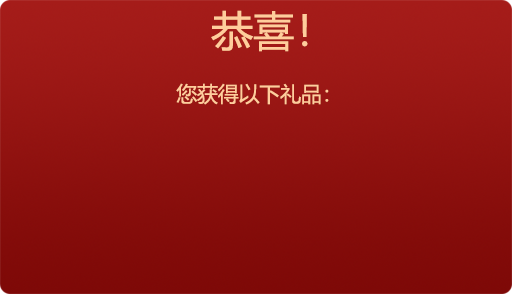
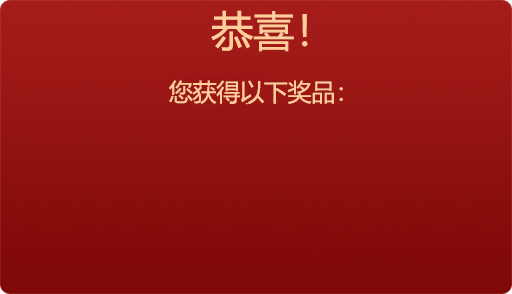
概率回调

Changed region(s): [[0.3125, 0.2755, 0.6562, 0.3673]]

diff --git a/src/MyPrizes.ts b/src/MyPrizes.ts
@@ -23,7 +23,7 @@ class MyPrizes extends eui.UILayer {
         var back = createBitmap("back_png");
 
         back.x = (this.stage.stageWidth - back.width) * 0.5;
-        back.y = this.stage.stageHeight * 0.8;
+        back.y = this.stage.stageHeight * 0.9;
         this.addChild(back);
 
         back.touchEnabled = true;
@@ -74,7 +74,7 @@ class MyPrizes extends eui.UILayer {
         ac_content.x = 200;
         ac_content.textColor = textColor;
         // ac_content.y = my_prize_info_bg.y + 360;
-        ac_content.y = my_prize_info_bg.y + 190;
+        ac_content.y = my_prize_info_bg.y + 390;
         myPrizeInfo_cnt.addChild(ac_content);
 
         // var rp_png = createBitmap("Red Packet Symbol_png");
@@ -97,15 +97,15 @@ class MyPrizes extends eui.UILayer {
 
 
 
-        // var dd_png = createBitmap("Dollar Symbol_png");
-        // var ad_text = "$" + MyPrizes.currentAd + mc_content.ad_content;
-        // var ad_content = createTextFiledNoEui(ad_text);
-        // ad_content.bold = true;
-        // ad_content.size = textSize;
-        // ad_content.x = 200;
-        // ad_content.textColor = textColor;
-        // ad_content.y = my_prize_info_bg.y + 190;
-        // myPrizeInfo_cnt.addChild(ad_content);
+        var dd_png = createBitmap("Dollar Symbol_png");
+        var ad_text = "$" + MyPrizes.currentAd + mc_content.ad_content;
+        var ad_content = createTextFiledNoEui(ad_text);
+        ad_content.bold = true;
+        ad_content.size = textSize;
+        ad_content.x = 200;
+        ad_content.textColor = textColor;
+        ad_content.y = my_prize_info_bg.y + 190;
+        myPrizeInfo_cnt.addChild(ad_content);
 
 
 
@@ -119,17 +119,17 @@ class MyPrizes extends eui.UILayer {
         var _scale = 1.5;
 
         
-        // dd_png.scaleX = _scale;
-        // dd_png.scaleY = _scale;
-        // dd_png.x = 150 - dd_png.width;
-        // dd_png.y =  my_prize_info_bg.y + 165;
+        dd_png.scaleX = _scale;
+        dd_png.scaleY = _scale;
+        dd_png.x = 150 - dd_png.width;
+        dd_png.y =  my_prize_info_bg.y + 165;
 
 
         coins_png.scaleX = _scale;
         coins_png.scaleY = _scale;
         coins_png.x = 150 - coins_png.width;
         // coins_png.y = my_prize_info_bg.y + 350;
-         coins_png.y = my_prize_info_bg.y + 165;
+         coins_png.y = my_prize_info_bg.y + 365;
 
         // rp_png.scaleX = _scale + 0.2;
         // rp_png.scaleY = _scale + 0.2;
@@ -138,7 +138,7 @@ class MyPrizes extends eui.UILayer {
 
 
         myPrizeInfo_cnt.addChild(coins_png);
-        // myPrizeInfo_cnt.addChild(dd_png);
+        myPrizeInfo_cnt.addChild(dd_png);
         // myPrizeInfo_cnt.addChild(rp_png);
 
         var tipsContent = createTextFiledNoEui(mc_content.RedeemTime);
@@ -168,7 +168,7 @@ class MyPrizes extends eui.UILayer {
     var back = createBitmap("How to redeem button_png");
 
     back.x = (this.stage.stageWidth - back.width) * 0.5;
-    back.y = this.stage.stageHeight * 0.73;
+    back.y = this.stage.stageHeight * 0.83;
     this.addChild(back);
 
     back.touchEnabled = true;

diff --git a/src/PrizeAndRules.ts b/src/PrizeAndRules.ts
@@ -76,7 +76,7 @@ class PrizeAndRules extends eui.UILayer {
 
         myPrizeInfo_cnt.addChild(my_prize_info_bg);
         myPrizeInfo_cnt.addChild(title);
-        //myPrizeInfo_cnt.addChild(user);
+        //myPrizeInfo_cnt.addChild( );
 
 
         var coins_png = createBitmap("Ox symbol_png");
@@ -105,18 +105,18 @@ class PrizeAndRules extends eui.UILayer {
         // }
 
 
-        // var dd_png = createBitmap("Dollar Symbol_png");
+        var dd_png = createBitmap("Dollar Symbol_png");
          
-        // for(var i =0;i< Main.staticDDPrizeList.length ; i++){
-        //     var ad_content = createTextFiledNoEui(Main.staticDDPrizeList[i]);
-        //     ad_content.size = textSize;
-        //     ad_content.x = 200;
-        //     ad_content.fontFamily="Microsoft YaHei";
-        //     ad_content.textColor = textColor;
-        //     ad_content.y = (my_prize_info_bg.y + 168 + textSize*i)/multi;
-        //     ad_content.y+= (i?1:0)*15;
-        //     myPrizeInfo_cnt.addChild(ad_content);
-        // }
+        for(var i =0;i< Main.staticDDPrizeList.length ; i++){
+            var ad_content = createTextFiledNoEui(Main.staticDDPrizeList[i]);
+            ad_content.size = textSize;
+            ad_content.x = 200;
+            ad_content.fontFamily="Microsoft YaHei";
+            ad_content.textColor = textColor;
+            ad_content.y = (my_prize_info_bg.y + 355 + textSize*i)/multi;
+            ad_content.y+= (i?1:0)*15;
+            myPrizeInfo_cnt.addChild(ad_content);
+        }
 
 
 
@@ -128,17 +128,17 @@ class PrizeAndRules extends eui.UILayer {
         var _scale = 1.5;
 
         
-        // dd_png.scaleX = _scale;
-        // dd_png.scaleY = _scale;
-        // dd_png.x = 150 - dd_png.width;
-        // dd_png.y =  (my_prize_info_bg.y + 165)/multi;
+        dd_png.scaleX = _scale;
+        dd_png.scaleY = _scale;
+        dd_png.x = 150 - dd_png.width;
+        dd_png.y =  (my_prize_info_bg.y + 165)/multi;
 
 
         coins_png.scaleX = _scale;
         coins_png.scaleY = _scale;
         coins_png.x = 150 - coins_png.width;
         //coins_png.y = (my_prize_info_bg.y + 350)/multi;
-        coins_png.y = (my_prize_info_bg.y + 165)/multi;
+        coins_png.y = (my_prize_info_bg.y + 365)/multi;
 
         // rp_png.scaleX = _scale;
         // rp_png.scaleY = _scale;
@@ -147,7 +147,7 @@ class PrizeAndRules extends eui.UILayer {
 
 
         myPrizeInfo_cnt.addChild(coins_png);
-        // myPrizeInfo_cnt.addChild(dd_png);
+        myPrizeInfo_cnt.addChild(dd_png);
         // myPrizeInfo_cnt.addChild(rp_png);
         myPrizeInfo_cnt.addChild(ac_content);
         // myPrizeInfo_cnt.addChild(ae_content);
@@ -209,8 +209,8 @@ class PrizeAndRules extends eui.UILayer {
         var tc = createTextFiledNoEui(mc_content.terms1_LBox+"。");
         tc.fontFamily="Microsoft YaHei";
             tc.size = 32;
-            tc.x = 436;
-            tc.y = 876;
+            tc.x = 444;
+            tc.y = 944;
             tc.textColor = 0x851c1c;
             tc.bold = true;
 

diff --git a/src/MBSContent.ts b/src/MBSContent.ts
@@ -15,17 +15,17 @@ let mc_content={
     "ac_content":" 新春小金牛\r\n",
     "ad_content":" 度假胜地奖赏钱",
     "ae_content":" \r\n\r\n滨海湾金沙独家红包封",
-    "MYPRIZE":"我的礼品",
-    "PRIZE":"礼品",
+    "MYPRIZE":"我的奖品",
+    "PRIZE":"奖品",
     "tipText1":"登陆/注册保存",
-    "tipText2":"您的游戏礼品和积分!",
+    "tipText2":"您的游戏奖品和积分!",
     "MID":"会员ID:",
     "InputID":"输入您的会员ID",
     "LoginSuccess":"登陆成功",
     "FormatErr":"会员 ID\r\n格式错误",
     "NetworkErr":"系统错误\r\n请稍后再试。",
     "BinSuccess":"新记录已成功登记",
-    "Binded":"礼品已经与其他会员绑定，请检查您的输入",
+    "Binded":"奖品已经与其他会员绑定，请检查您的输入",
     "BindedBefore":"您的账号已经被绑定过了，请检查您的输入",
     "Bindfail":"绑定失败。\r\n请稍后再试。",
     "terms1":"  我希望通过信件、电邮、简讯及/或电话搜集，\r\n接收所述的最新营销动态在",
@@ -46,7 +46,7 @@ let mc_content={
     "eText2":"",
     "eText3":"",
     "eText":"滨海湾金沙独家红包封",
-    "RedeemTime":"请在2021年3月11日之前兑换您的礼品",
+    "RedeemTime":"请在2021年3月11日之前兑换您的奖品",
     "Play":"请开始游戏",
     "TC":"条款与条件。",
     "haveBinded":"你今天已经玩过了,\r\n此次游戏不会被记录",

diff --git a/bin-debug/IndexUI.js b/bin-debug/IndexUI.js
@@ -303,7 +303,7 @@ var IndexUI = (function (_super) {
                         if (this.isNormalError) {
                             this.pauseAllBalls(this.balls);
                             //this.popUpMessageTip(mc_content.PlayedMsg,that);
-                            ShowConfirmBox(mc_content.PlayedMsg, "Warning", that, function () {
+                            ShowConfirmBox(mc_content.PlayedMsg, "提示", that, function () {
                                 var gameui = ScenceManage.create(that.stage);
                                 gameui.loadScence("index", that, IndexUI);
                             });

diff --git a/src/HowToRedeem.ts b/src/HowToRedeem.ts
@@ -34,12 +34,12 @@ class HowToRedeem extends eui.UILayer {
           p2.height = p2Height;
           p2.y = p1.y + p1.height + 30;
 
-          tips.y = p1.y + p1.height + 10;
+          tips.y =  p2.y + p2.height + 25;
 
         //   prizeRulesBtn.y = tips.y + tips.height + 40;
           prizeRulesBtn.y = this.stage.stageHeight * 0.91
           this.addChild(p1);
-        //   this.addChild(p2);
+          this.addChild(p2);
           this.addChild(tips);
           this.addChild(prizeRulesBtn);
 

diff --git a/bin-debug/Main.js b/bin-debug/Main.js
@@ -278,7 +278,7 @@ Main.laohujiButOnoff = true;
 Main.registLoginShow = false;
 //http://150.109.32.241:4503/
 //"https://staging.marinabaysands.com"
-//static  baseUrl = window.location.protocol +"//" +window.location.host;
+// static  baseUrl = window.location.protocol +"//" +window.location.host;
 Main.baseUrl = "https://staging.marinabaysands.com";
 Main.patronRegisterUrl = "/services/members_card_register";
 Main.lotteryApi = "/services/h5game/lottery";
